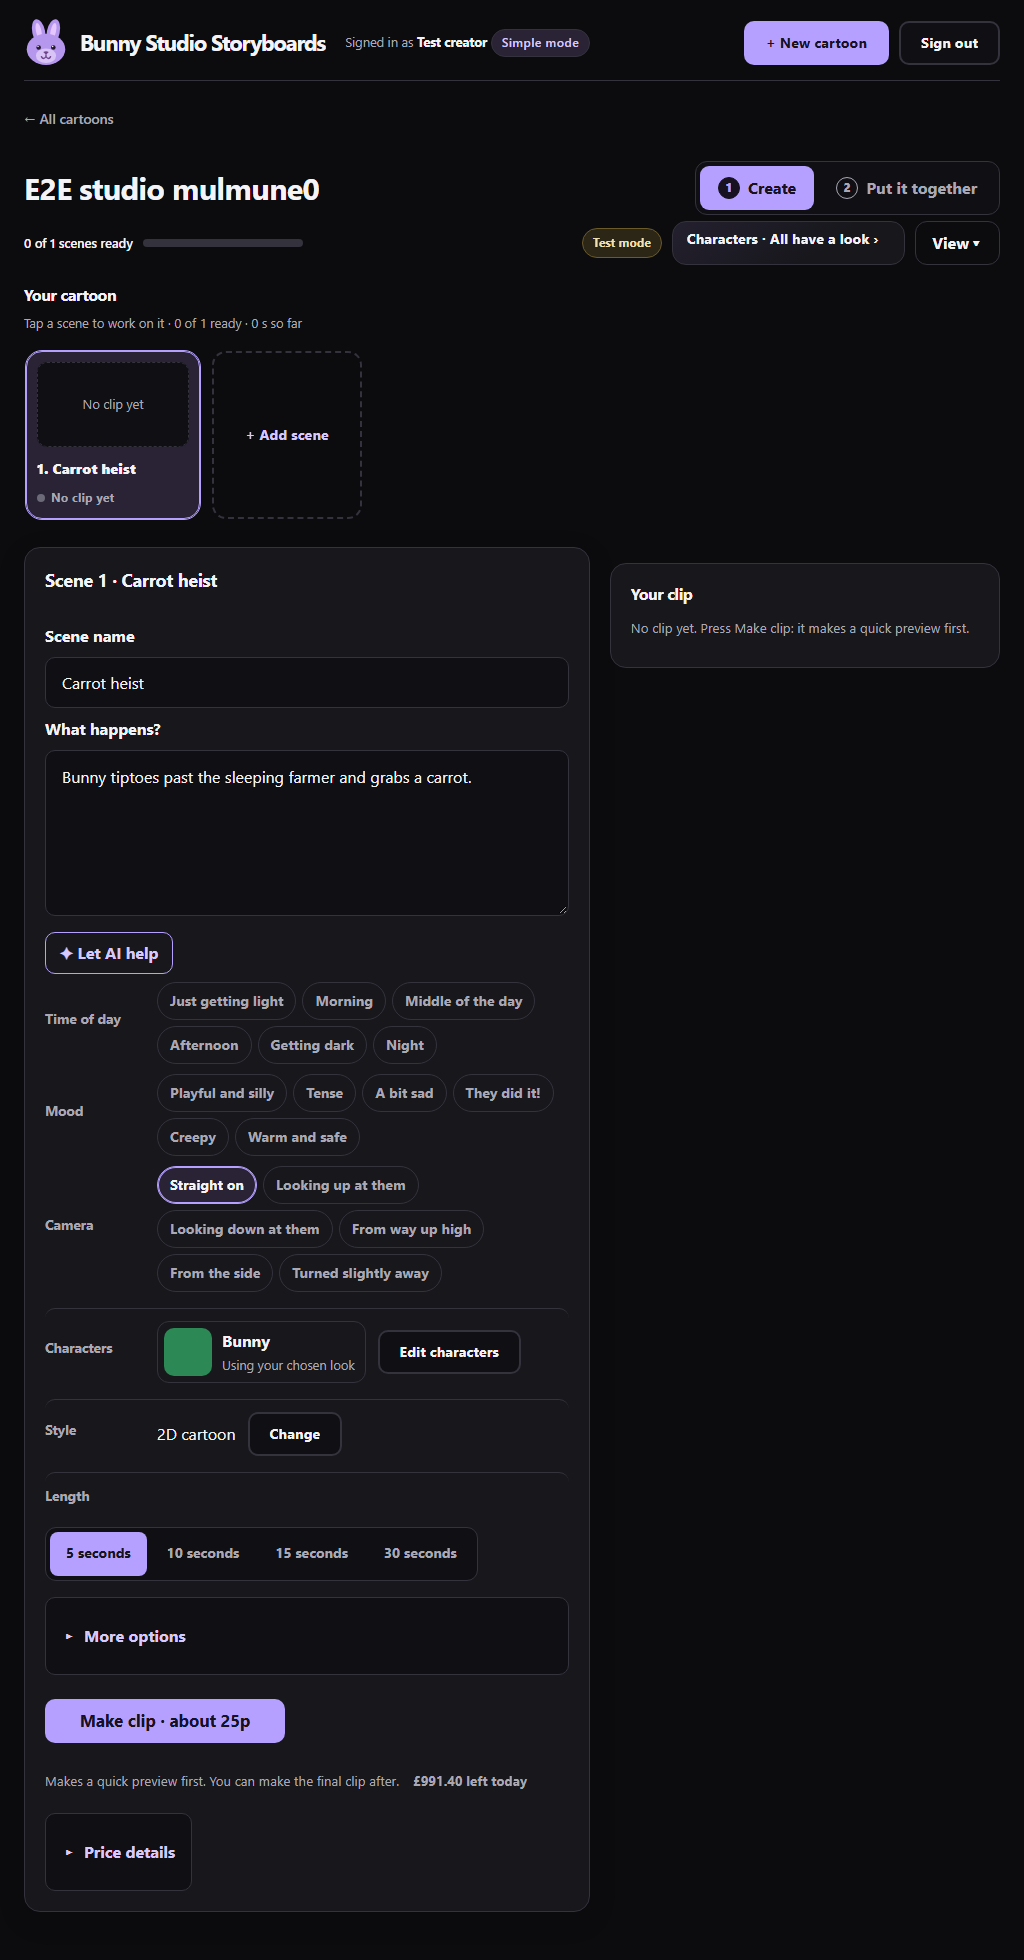
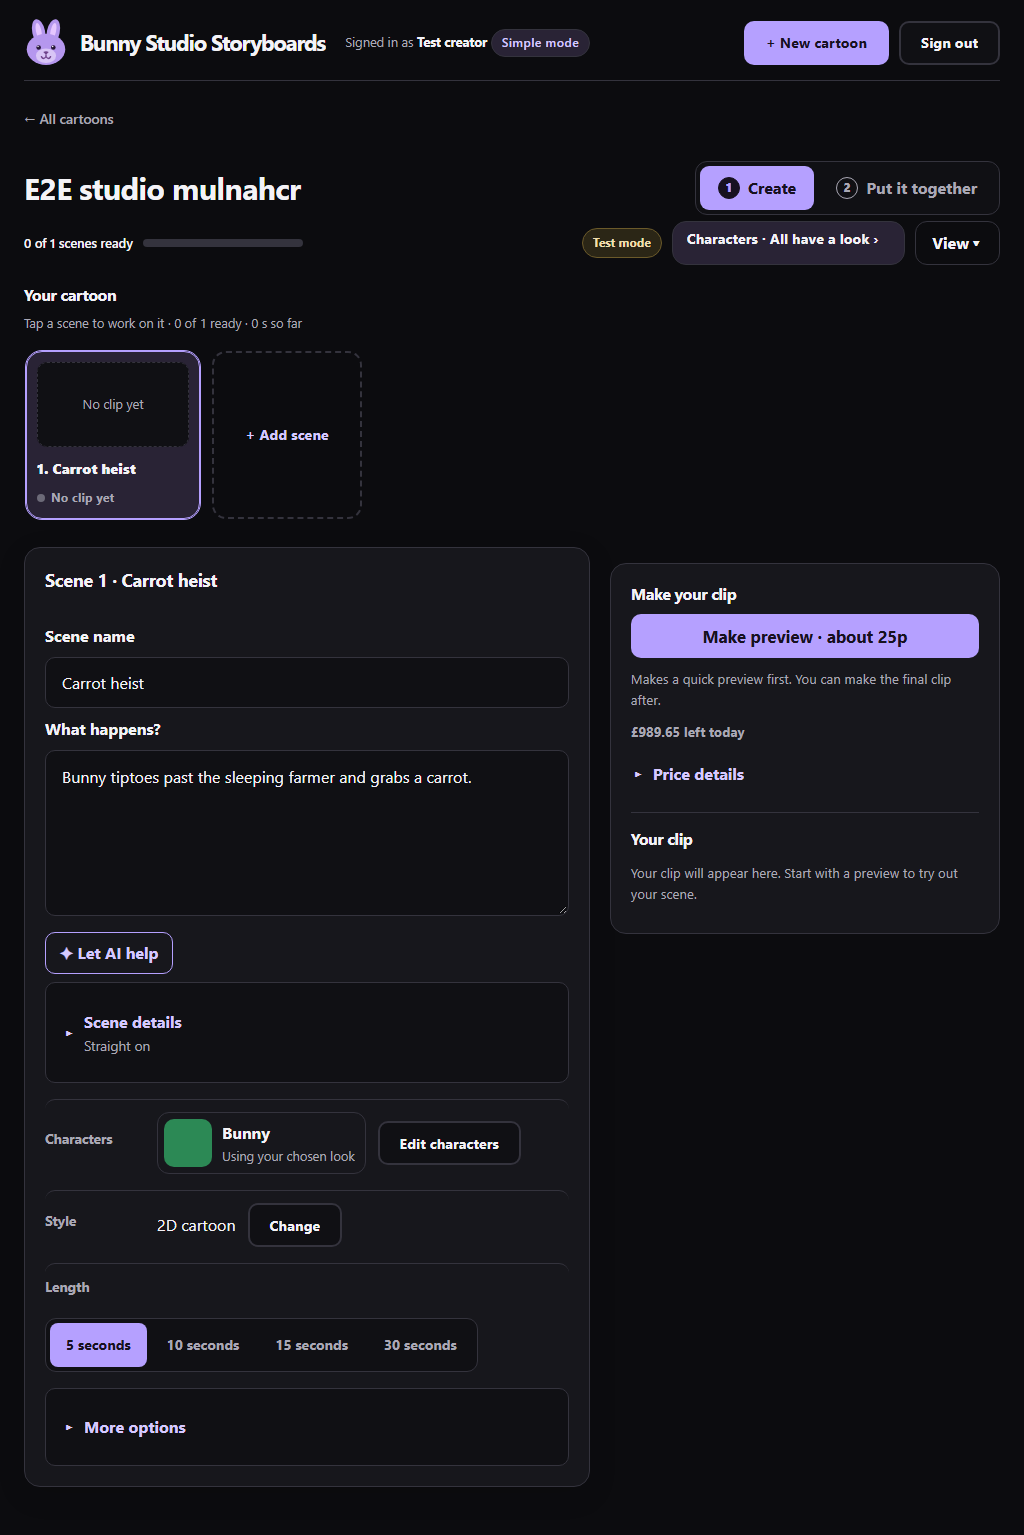
feat(web): Create usability pass - Scene details, make action beside the editor
Time, mood and camera fold into Scene details with a one-line summary; the priced make action sits beside the editor above the player; the preview action is labelled Make preview; Characters contrast fixed in light mode; 44px detail chips. Tests and screenshots updated.

Tests: build ok, packages 56, API 134, browser 25 (incl. walkthrough) pass.

diff --git a/apps/web/src/components/SceneComposer.tsx b/apps/web/src/components/SceneComposer.tsx
@@ -5,7 +5,7 @@ import {
   director, formatPence, isActiveJob, seconds,
   type Asset, type GenerationSettings, type Job, type NeedsChoice, type Shot, type ShotCast, type VideoBody, type VideoPlan,
 } from '../director-api';
-import { ART_STYLE } from '@storyboard/vocabularies';
+import { ART_STYLE, PROMPT_VOCABULARIES } from '@storyboard/vocabularies';
 import { uuid } from '../uuid';
 import { sceneLink } from '../sceneState';
 import { ProblemBox } from './ProblemBox';
@@ -129,7 +129,7 @@ export function SceneComposer(props: Props) {
   }, [videoJobs, jobsLoaded]);
   const playing = clips.find((c) => c.asset.id === pickedClip) ?? clips.find((c) => c.asset.id === heroId) ?? (heroAsset ? { asset: heroAsset, job: null } : clips[0] ?? null);
   const playingJob = playing?.job ?? null;
-  // One button (simpler Create): "Make clip" makes a preview; with a finished preview on screen
+  // One button: "Make preview" makes a preview; with a finished preview on screen
   // it becomes "Make final clip" from that preview's recipe. "Use my current scene settings
   // instead" makes a fresh final; "Skip the preview" goes straight to a final.
   const previewOnScreen = playingJob?.intent === 'draft' && playingJob.status === 'ready' ? playingJob : null;
@@ -272,7 +272,15 @@ export function SceneComposer(props: Props) {
   const styleValue = scene.art_style ?? CLIP_STYLES.find(([v]) => shot?.compiled_prompt.startsWith(ART_STYLE.find((s) => s.value === v)!.prompt_phrase))?.[0] ?? null;
   const styleLabel = CLIP_STYLES.find(([v]) => v === styleValue)?.[1] ?? 'Not chosen';
   const plan = quote?.plan ?? null;
-  const actionLabel = purpose === 'preview' ? 'Make clip' : 'Make final clip';
+  const actionLabel = purpose === 'preview' ? 'Make preview' : 'Make final clip';
+  const detailSummary = ([
+    ['time_of_day', sceneText.text.time_of_day],
+    ['mood_atmosphere', sceneText.text.mood_atmosphere],
+    ['camera_angle', sceneText.text.camera_angle ?? 'eye_level'],
+  ] as const).flatMap(([vocabulary, value]) => {
+    const option = PROMPT_VOCABULARIES[vocabulary].find((entry) => entry.value === value);
+    return option && !('emitsNothing' in option && option.emitsNothing) ? [advanced ? option.label : option.friendlyLabel] : [];
+  }).join(' · ');
   // Money in plain words: what is left, next to the price on the button (not "about 9,000 clips").
   const allowance = settings?.allowance;
   const leftWords = allowance
@@ -324,21 +332,23 @@ export function SceneComposer(props: Props) {
                   }} />
               </div>
             </details>
-            {/* Time, mood and camera are part of the scene, so they sit right under it as buttons. */}
-            <div className="composer-rows scene-choices">
-              <span className="label-text" id={`time-${scene.id}`}>Time of day</span>
-              <OptionPicker vocabulary="time_of_day" value={sceneText.text.time_of_day} friendly={!advanced} compact label="Time of day" allowNone toggle
-                allowedValues={['dawn', 'morning', 'midday', 'afternoon', 'dusk', 'night']}
-                onChange={(value) => { sceneText.edit('time_of_day', value ?? 'unspecified'); void sceneText.flush(); }} />
-              <span className="label-text">Mood</span>
-              <OptionPicker vocabulary="mood_atmosphere" value={sceneText.text.mood_atmosphere} friendly={!advanced} compact label="Mood" allowNone toggle
-                allowedValues={advanced ? undefined : [...SIMPLE_MOODS, ...(sceneText.text.mood_atmosphere && !SIMPLE_MOODS.includes(sceneText.text.mood_atmosphere) ? [sceneText.text.mood_atmosphere] : [])]}
-                onChange={(value) => { sceneText.edit('mood_atmosphere', value); void sceneText.flush(); }} />
-              <span className="label-text">Camera</span>
-              <OptionPicker vocabulary="camera_angle" value={sceneText.text.camera_angle ?? 'eye_level'} friendly={!advanced} compact label="Camera"
-                allowedValues={['eye_level', 'low_angle', 'high_angle', 'birds_eye', 'profile', 'three_quarter']}
-                onChange={(value) => { if (value) { sceneText.edit('camera_angle', value); void sceneText.flush(); } }} />
-            </div>
+            <details className="scene-settings scene-detail-options">
+              <summary><span>Scene details<span className="scene-detail-summary">{detailSummary}</span></span></summary>
+              <div className="composer-rows scene-choices">
+                <span className="label-text" id={`time-${scene.id}`}>Time of day</span>
+                <OptionPicker vocabulary="time_of_day" value={sceneText.text.time_of_day} friendly={!advanced} compact label="Time of day" allowNone toggle
+                  allowedValues={['dawn', 'morning', 'midday', 'afternoon', 'dusk', 'night']}
+                  onChange={(value) => { sceneText.edit('time_of_day', value ?? 'unspecified'); void sceneText.flush(); }} />
+                <span className="label-text">Mood</span>
+                <OptionPicker vocabulary="mood_atmosphere" value={sceneText.text.mood_atmosphere} friendly={!advanced} compact label="Mood" allowNone toggle
+                  allowedValues={advanced ? undefined : [...SIMPLE_MOODS, ...(sceneText.text.mood_atmosphere && !SIMPLE_MOODS.includes(sceneText.text.mood_atmosphere) ? [sceneText.text.mood_atmosphere] : [])]}
+                  onChange={(value) => { sceneText.edit('mood_atmosphere', value); void sceneText.flush(); }} />
+                <span className="label-text">Camera</span>
+                <OptionPicker vocabulary="camera_angle" value={sceneText.text.camera_angle ?? 'eye_level'} friendly={!advanced} compact label="Camera"
+                  allowedValues={['eye_level', 'low_angle', 'high_angle', 'birds_eye', 'profile', 'three_quarter']}
+                  onChange={(value) => { if (value) { sceneText.edit('camera_angle', value); void sceneText.flush(); } }} />
+              </div>
+            </details>
           </div>
 
           {fromPreview ? (
@@ -503,7 +513,12 @@ export function SceneComposer(props: Props) {
               </details>
             </div>
           </details>
+        </section>
+      </DirectorPanel>
 
+      <DirectorPanel key={`clips-${layoutReset}`} title="Your clips" className="director-right" movable={movable}>
+        <section className="clip-make" aria-label="Make your clip">
+          <h4>Make your clip</h4>
           {quote?.needs && (
             <div className="notice needs" role="status">
               <p>{quote.needs.detail}</p>
@@ -537,11 +552,8 @@ export function SceneComposer(props: Props) {
           </div>
           {activeJob && <JobProgress job={activeJob} what="clip" />}
         </section>
-      </DirectorPanel>
-
-      <DirectorPanel key={`clips-${layoutReset}`} title="Your clips" className="director-right" movable={movable}>
         <h4>Your clip</h4>
-        {!playing && <p className="hint">No clip yet. Press Make clip: it makes a quick preview first.</p>}
+        {!playing && <p className="hint">Your clip will appear here. Start with a preview to try out your scene.</p>}
         {playing && (
           <>
             <div className="clip-stage">

diff --git a/apps/web/e2e/scene-composer.spec.ts b/apps/web/e2e/scene-composer.spec.ts
@@ -14,7 +14,9 @@ test('write and generate in one workspace; later edits keep the clip and flag it
   await workspace(page);
   await page.getByLabel('Scene name', { exact: true }).fill('A leaf falls');
   await page.getByLabel('What happens?').fill('A red leaf lands on a quiet pond.');
-  // Time, mood and camera are buttons right under the scene (no section to open).
+  // Optional choices start folded, with selected values visible in the summary.
+  await expect(page.getByRole('group', { name: 'Time of day' })).toBeHidden();
+  await page.locator('.scene-detail-options > summary').click();
   const time = page.getByRole('group', { name: 'Time of day' });
   const mood = page.getByRole('group', { name: 'Mood' });
   const camera = page.getByRole('group', { name: 'Camera' });
@@ -25,7 +27,7 @@ test('write and generate in one workspace; later edits keep the clip and flag it
   await expect(mood.getByRole('button', { name: 'Tense' })).toHaveAttribute('aria-pressed', 'false');
   await mood.getByRole('button', { name: 'Warm and safe' }).click();
   await expect(page.getByText('Saved', { exact: true })).toBeVisible();
-  await page.getByRole('button', { name: /^Make clip · about/ }).click();
+  await page.getByRole('button', { name: /^Make preview · about/ }).click();
   await expect(page.locator('.clip-label')).toContainText('In your cartoon', { timeout: 60_000 });
   await page.getByLabel('What happens?').fill('A blue leaf lands on a quiet pond.');
   await expect(page.getByText('Saved', { exact: true })).toBeVisible();
@@ -37,6 +39,8 @@ test('write and generate in one workspace; later edits keep the clip and flag it
   await page.reload();
   await expect(page.getByLabel('What happens?')).toHaveValue('A blue leaf lands on a quiet pond.');
   await expect(page.getByLabel('Scene name', { exact: true })).toHaveValue('A leaf falls');
+  await expect(page.locator('.scene-detail-options > summary')).toContainText('Getting dark');
+  await page.locator('.scene-detail-options > summary').click();
   await expect(page.getByRole('group', { name: 'Time of day' }).getByRole('button', { name: 'Getting dark' })).toHaveAttribute('aria-pressed', 'true');
   await expect(page.getByRole('group', { name: 'Camera' }).getByRole('button', { name: 'Looking down at them' })).toHaveAttribute('aria-pressed', 'true');
   await expect(page.getByRole('group', { name: 'Mood' }).getByRole('button', { name: 'Warm and safe' })).toHaveAttribute('aria-pressed', 'true');
@@ -55,10 +59,10 @@ test('typing during a slow save is kept; generation waits; switching scenes save
   await page.getByLabel('What happens?').fill('First idea.');
   await expect.poll(() => captured).toBe(true);
   await page.getByLabel('What happens?').fill('The newest idea stays here.');
-  await expect(page.getByRole('button', { name: /^Make clip/ })).toBeDisabled();
+  await expect(page.getByRole('button', { name: /^Make preview/ })).toBeDisabled();
   release();
   await expect(page.getByText('Saved', { exact: true })).toBeVisible();
-  await expect(page.getByRole('button', { name: /^Make clip · about/ })).toBeEnabled();
+  await expect(page.getByRole('button', { name: /^Make preview · about/ })).toBeEnabled();
   await page.getByLabel('What happens?').fill('Saved even when I immediately switch scenes.');
   await page.getByRole('button', { name: '+ Add scene', exact: true }).click();
   await expect(page.getByLabel('Scene name', { exact: true })).toHaveValue('Scene 2');
@@ -76,7 +80,7 @@ test('failed and conflicting saves keep text and offer explicit recovery', async
   });
   await page.getByLabel('What happens?').fill('Keep this idea after an error.');
   await expect(page.getByRole('button', { name: 'Retry save' })).toBeVisible();
-  await expect(page.getByRole('button', { name: /^Make clip/ })).toBeDisabled();
+  await expect(page.getByRole('button', { name: /^Make preview/ })).toBeDisabled();
   failure = 0;
   await page.getByRole('button', { name: 'Retry save' }).click();
   await expect(page.getByText('Saved', { exact: true })).toBeVisible();

diff --git a/apps/web/src/styles.css b/apps/web/src/styles.css
@@ -1045,7 +1045,7 @@ summary:focus-visible { outline: 2px solid var(--accent); outline-offset: 3px; }
 /* One header row: progress, test-mode pill, Characters, View beside the title and steps. */
 .create-controls { display: flex; flex-wrap: wrap; align-items: center; gap: 10px; }
 .create-controls .director-progress { margin-right: auto; }
-.create-controls .cast-button { width: auto; min-height: var(--tap); padding: 0 14px; }
+.create-controls .cast-button { width: auto; min-height: var(--tap); padding: 0 14px; background: var(--selected-surface); color: var(--ink); }
 .create-controls .view-menu[open] { flex-basis: 100%; order: 10; }
 .test-mode-pill { font-size: .75rem; font-weight: 700; padding: 4px 10px; border-radius: 999px; border: 1px solid #6b5a2a; color: #f0dfb0; background: #2b2616; cursor: help; }
 /* Add scene is the last tile of the strip; a phone gets a scene drop-down instead. */
@@ -1059,7 +1059,7 @@ summary:focus-visible { outline: 2px solid var(--accent); outline-offset: 3px; }
 }
 /* Scene choices as chips, right under the scene words. */
 .picker.compact { gap: 6px; }
-.picker.compact .chip { min-height: 38px; padding: 0 12px; border-radius: 999px; border: 1px solid var(--line); background: transparent; color: var(--ink-soft); font-weight: 650; font-size: .88rem; }
+.picker.compact .chip { min-height: var(--tap); padding: 0 12px; border-radius: 999px; border: 1px solid var(--line); background: transparent; color: var(--ink-soft); font-weight: 650; font-size: .88rem; }
 .picker.compact .chip.selected { border-color: var(--accent); background: var(--selected-surface); color: var(--ink); box-shadow: inset 0 0 0 1px var(--accent); }
 .composer-rows { display: grid; grid-template-columns: 100px minmax(0, 1fr); gap: 10px 12px; align-items: center; }
 .composer-rows > .label-text { color: var(--ink-soft); font-size: .85rem; font-weight: 700; }
@@ -1072,6 +1072,12 @@ summary:focus-visible { outline: 2px solid var(--accent); outline-offset: 3px; }
 .let-ai-help > summary:focus-visible { outline: 3px solid var(--accent); outline-offset: 3px; }
 .let-ai-help[open] > summary { margin-bottom: 10px; }
 .money-left { font-weight: 700; }
+.scene-detail-summary { display: block; color: var(--ink-soft); font-size: .85rem; font-weight: 400; }
+.clip-make { border-bottom: 1px solid var(--line); padding-bottom: 16px; margin-bottom: 16px; }
+.clip-make .go-row { display: grid; gap: 10px; }
+.clip-make .go-row > p { margin: 0; }
+.clip-make .main-action { min-width: 0; width: 100%; }
+.clip-make .price-details { padding: 0; border: 0; background: transparent; }
 /* Scene and clip side by side from tablet width. */
 @media (min-width: 1000px) { .director-page .director-work { grid-template-columns: minmax(0, 1.45fr) minmax(260px, 1fr); } }
 @media (max-width: 600px) {

diff --git a/apps/web/e2e/character-studio.spec.ts b/apps/web/e2e/character-studio.spec.ts
@@ -38,7 +38,7 @@ test.describe('Character Studio', () => {
     await expect(portrait).toContainText('Using your chosen look');
     await expect(portrait.locator('img')).toBeVisible();
     await expect.poll(() => portrait.locator('img').evaluate((img: HTMLImageElement) => img.naturalWidth)).toBeGreaterThan(0);
-    await expect(page.getByRole('button', { name: /^Make clip · about/ })).toBeEnabled();
+    await expect(page.getByRole('button', { name: /^Make preview · about/ })).toBeEnabled();
     await page.reload();
     await expect(portrait).toContainText('Using your chosen look');
     await expect(portrait.locator('img')).toBeVisible();
@@ -95,7 +95,7 @@ test.describe('Character Studio', () => {
     await page.getByLabel('Add a character to this scene').selectOption({ label: 'Bunny' });
     await page.getByRole('button', { name: 'Save characters' }).click();
     await expect(page.locator('.portrait', { hasText: 'Bunny' })).toContainText('Using your chosen look');
-    const main = page.getByRole('button', { name: /^Make clip · about/ });
+    const main = page.getByRole('button', { name: /^Make preview · about/ });
     await expect(main).toBeEnabled();
     await page.screenshot({ path: `${shots}/03-composer.png`, fullPage: true });
 
@@ -135,9 +135,9 @@ test.describe('Character Studio', () => {
     await page.route('**/api/v1/shots/*/videos/quote', (route) => route.fulfill({ status: 503, contentType: 'application/problem+json', body: JSON.stringify({ title: 'Unavailable', status: 503, detail: 'Try again.' }) }));
     await page.getByRole('navigation', { name: 'Cartoon steps' }).getByRole('link', { name: 'Create', exact: true }).click();
     await expect(page.getByRole('button', { name: 'Check price again' })).toBeVisible();
-    await expect(page.getByRole('button', { name: /^Make clip/ })).toBeDisabled();
+    await expect(page.getByRole('button', { name: /^Make preview/ })).toBeDisabled();
     await page.unroute('**/api/v1/shots/*/videos/quote');
     await page.getByRole('button', { name: 'Check price again' }).click();
-    await expect(page.getByRole('button', { name: /^Make clip · about/ })).toBeEnabled();
+    await expect(page.getByRole('button', { name: /^Make preview · about/ })).toBeEnabled();
   });
 });

diff --git a/apps/web/e2e/director.spec.ts b/apps/web/e2e/director.spec.ts
@@ -90,7 +90,7 @@ test.describe('Director', () => {
     await expect(page.getByRole('button', { name: /2 Sister wants a go/ })).toBeVisible();
     await expect(page.getByLabel('What happens?')).toHaveValue('');
     await expect(page.getByLabel('What happens?')).toBeVisible();
-    await expect(page.getByRole('button', { name: /^Make clip/ })).toBeDisabled();
+    await expect(page.getByRole('button', { name: /^Make preview/ })).toBeDisabled();
     await expect(page.getByText('Describe what happens in this scene first.')).toBeVisible();
     await expect(page.getByRole('heading', { name: 'Your cartoon' })).toBeVisible();
     await expect(page.getByRole('navigation', { name: 'Cartoon steps' }).getByRole('link', { name: /Put it together/ })).toBeVisible();
@@ -156,7 +156,7 @@ test.describe('Director', () => {
     await page.getByRole('button', { name: '15 seconds', exact: true }).click();
     await page.getByText('Price details').click();
     await expect(page.getByText(/shorter clips joined together/)).toBeVisible();
-    await page.getByRole('button', { name: /^Make clip · about/ }).click();
+    await page.getByRole('button', { name: /^Make preview · about/ }).click();
     await expect(page.getByRole('button', { name: /1 Timmy finds the ball In the cartoon/ })).toBeVisible({ timeout: 90_000 });
 
     await page.getByRole('navigation', { name: 'Cartoon steps' }).getByRole('link', { name: /Put it together/ }).click();

diff --git a/apps/web/e2e/screens.spec.ts b/apps/web/e2e/screens.spec.ts
@@ -82,9 +82,9 @@ test.describe('screen walkthrough', () => {
     await page.getByLabel('Add a character to this scene').selectOption({ label: 'Bunny' });
     await page.getByRole('button', { name: 'Save characters' }).click();
     await expect(page.locator('.portrait', { hasText: 'Bunny' })).toBeVisible();
-    await expect(page.getByRole('button', { name: /^Make clip · about/ })).toBeEnabled();
+    await expect(page.getByRole('button', { name: /^Make preview · about/ })).toBeEnabled();
     await shot(page, '10-composer-ready', errors);
-    await page.getByRole('button', { name: /^Make clip · about/ }).click();
+    await page.getByRole('button', { name: /^Make preview · about/ }).click();
     await expect(page.locator('.clip-label')).toContainText('In your cartoon', { timeout: 90_000 });
     await shot(page, '11-after-preview', errors);
 

diff --git a/CHANGELOG.md b/CHANGELOG.md
@@ -7,6 +7,10 @@ teen; the app itself explains changes in its own words.
 
 ## Unreleased
 
+- Create on tablets and desktops: fold time, mood and camera into Scene details with a
+  summary; place the priced make action beside the editor above the player; label previews
+  explicitly as "Make preview". Fix Characters contrast in light mode and use 44px detail chips.
+
 - Character Studio: make a character, make or upload picture choices, say "This looks like …",
   add views made from that picture and approve the pack. Pictures stay ideas until chosen;
   approved looks never change by themselves, and older clips keep the look they used. Each
